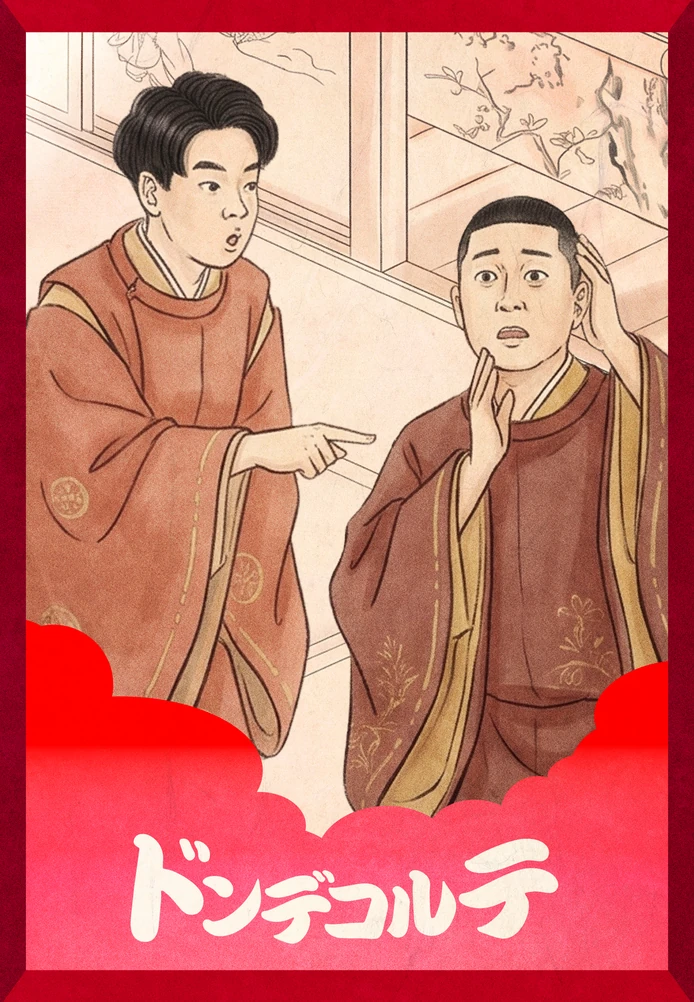
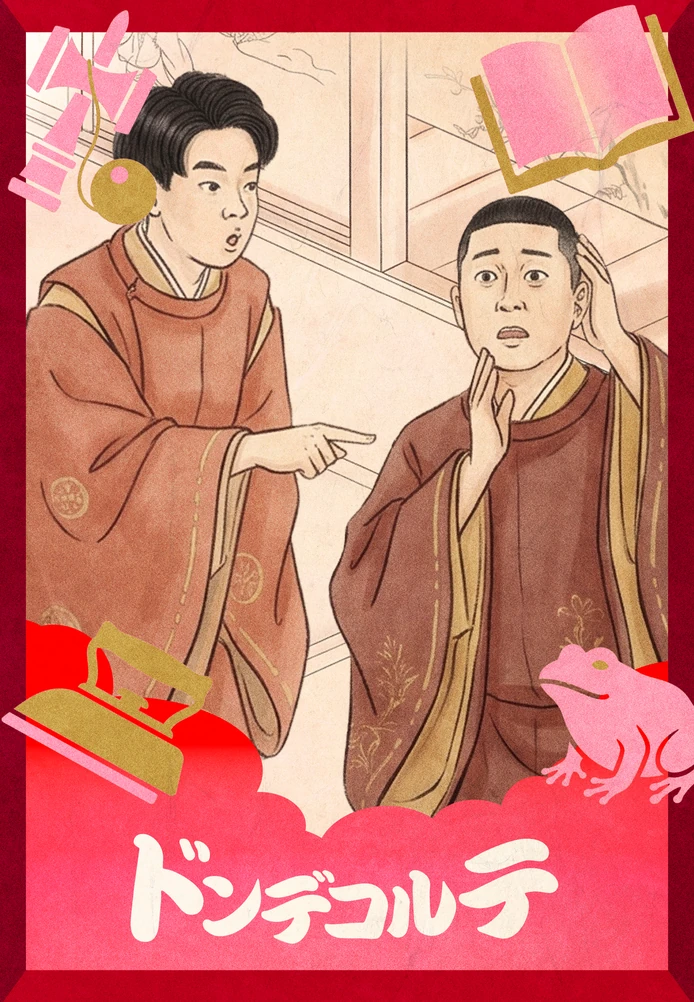
Replace the three drawn cards with the motif versions (evers, takuro, dondecolte)
Claude-Session: https://claude.ai/code/session_012BLBGt6ZxYawmyCkm1V2rE

diff --git a/README.md b/README.md
@@ -18,7 +18,7 @@
 | パス | 中身 |
 | --- | --- |
 | `input/bg-tate.webp` | 背景(支給素材 `背景png/縦.png`、1080×1920) |
-| `input/cards/<id>.webp` | 絵札(支給素材 `絵札png/*_100%.png`、枠・名前入り、高さ 1002)。今は evers・takuro・dondecolte |
+| `input/cards/<id>.webp` | 絵札(枠・名前入り、高さ 1002)。今は evers・takuro・dondecolte。棚・3 枚の画面・保存用画像のどれもこの絵を使う。2026-11-13 にモチーフ入りの絵(支給素材 `261113_…素材お渡し/絵札/*.png`)に差し替え。作り方: `gemini-canvas/make_input_assets.py --cards <絵札のフォルダ> <このリポジトリ>` |
 | `input/footer.webp` | いちばん下の「Made with Google Gemini」(参考画像「縦-大」から切り出し) |
 
 作り方: `gemini-canvas/make_input_assets.py <支給素材のフォルダ> <このリポジトリ>`。
